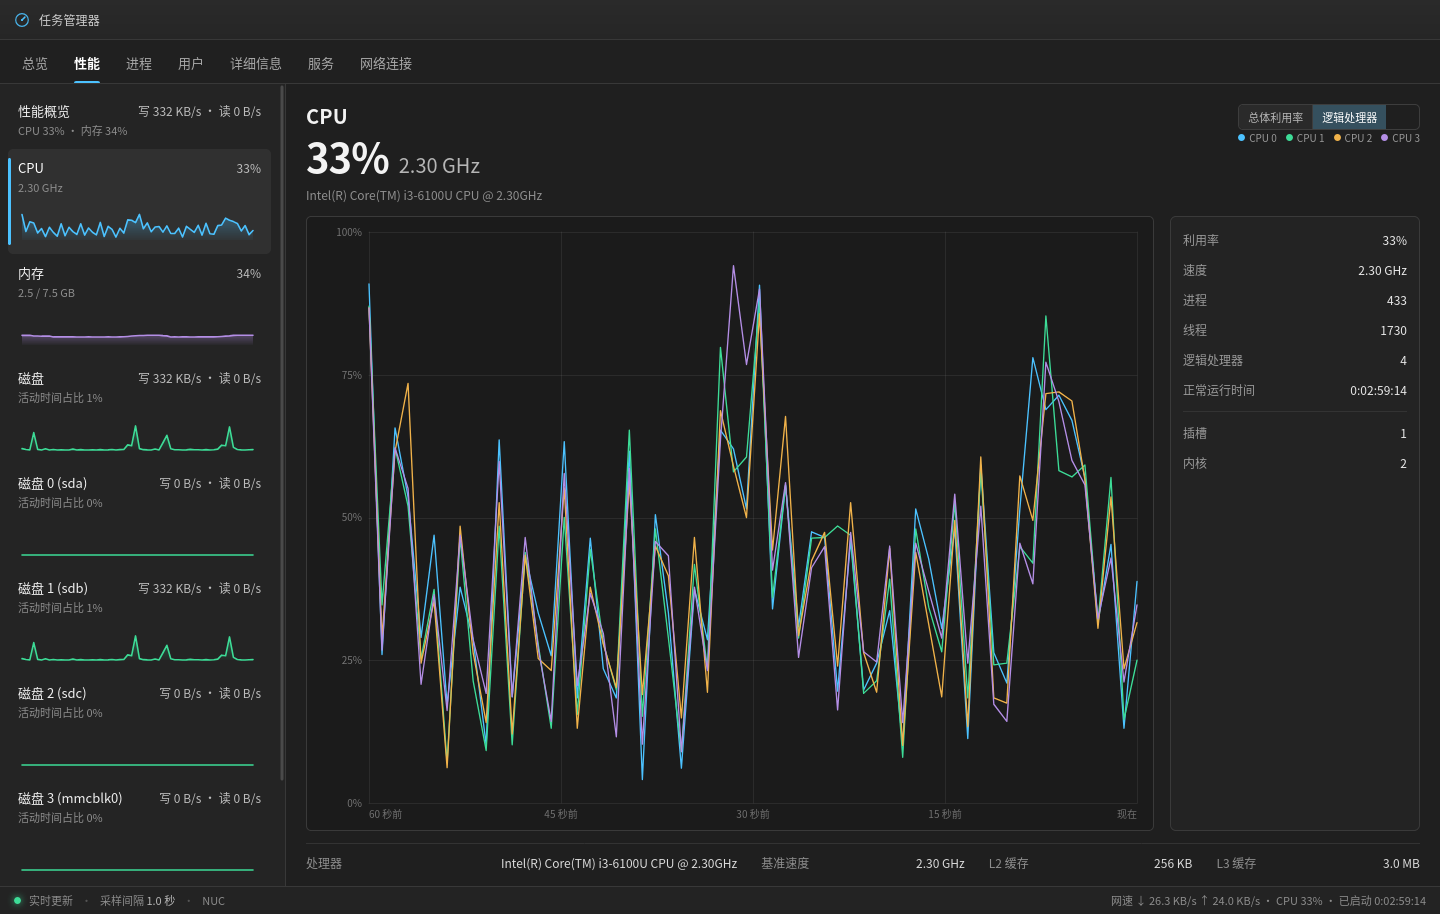
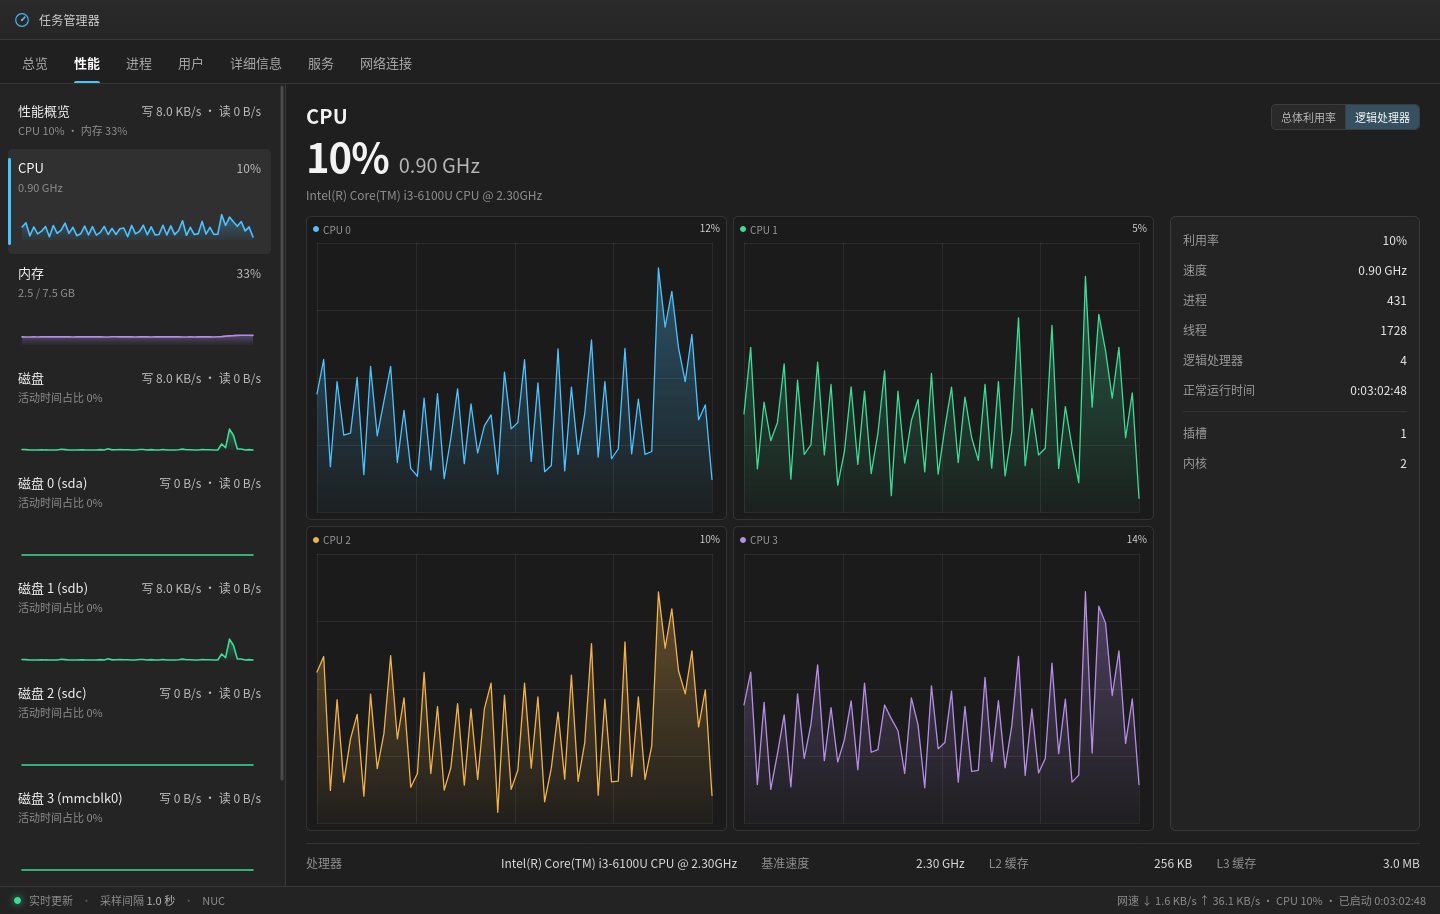
Add per-core CPU grid and persist page/CPU mode

diff --git a/public/app.js b/public/app.js
@@ -18,6 +18,7 @@
     networkSeries: [],
     view: 'overview',
     cpuMode: 'total',
+    cpuCoreCharts: [],
     diskName: null,
     diskSig: '',
     diskRows: [],
@@ -453,56 +454,85 @@
     return CPU_CORE_COLORS[index % CPU_CORE_COLORS.length];
   }
 
-  function cpuCoresTooltip(payload) {
-    if (!payload) return hideTooltip();
-    const rows = payload.values.map((value, index) => ({
-      color: cpuCoreColor(index),
-      label: `逻辑处理器 ${index}`,
-      value: value == null ? '—' : pct(value),
-    }));
-    showTooltip(timeLabel(payload.index), rows, payload.x, payload.y);
+  function cpuGridShape(count) {
+    const cols = count <= 4 ? Math.min(2, Math.max(1, count)) : 4;
+    return { cols, rows: Math.ceil(count / cols) };
   }
 
-  function renderCpuLegend(count) {
-    const el = $('#cpuLegend');
-    if (!el) return;
-    if (!count) {
-      el.hidden = true;
-      el.innerHTML = '';
-      return;
+  function cpuCoreTooltip(index, color) {
+    return (payload) => {
+      if (!payload) return hideTooltip();
+      const value = payload.values[0];
+      showTooltip(
+        timeLabel(payload.index),
+        [{ color, label: `CPU ${index}`, value: value == null ? '—' : pct(value) }],
+        payload.x,
+        payload.y
+      );
+    };
+  }
+
+  function ensureCpuCoreGrid(count) {
+    const grid = $('#cpuCoresGrid');
+    if (!grid) return;
+    const { cols, rows } = cpuGridShape(count);
+    grid.style.gridTemplateColumns = `repeat(${cols}, minmax(0, 1fr))`;
+    grid.style.gridTemplateRows = `repeat(${rows}, minmax(0, 1fr))`;
+    if (state.cpuCoreCharts.length === count && grid.children.length === count) return;
+
+    grid.innerHTML = '';
+    state.cpuCoreCharts = [];
+    for (let index = 0; index < count; index += 1) {
+      const color = cpuCoreColor(index);
+      const card = document.createElement('div');
+      card.className = 'cpu-core-card';
+      card.innerHTML =
+        `<div class="cpu-core-card-head">` +
+        `<span class="cpu-core-card-name"><i style="background:${color}"></i>CPU ${index}</span>` +
+        `<span class="cpu-core-card-val">--</span>` +
+        `</div>` +
+        `<div class="cpu-core-chart"><canvas></canvas></div>`;
+      grid.appendChild(card);
+      const chart = new Chart(card.querySelector('canvas'), {
+        max: 100,
+        grid: true,
+        labels: false,
+        minScale: 0,
+        hover: true,
+        tooltip: cpuCoreTooltip(index, color),
+        series: [{ color, fill: true, width: 1.3 }],
+      });
+      state.cpuCoreCharts.push({ chart, valueEl: card.querySelector('.cpu-core-card-val') });
     }
-    el.hidden = false;
-    el.innerHTML = Array.from(
-      { length: count },
-      (_, index) =>
-        `<span class="cpu-legend-item"><i style="background:${cpuCoreColor(index)}"></i>CPU ${index}</span>`
-    ).join('');
+    requestAnimationFrame(() => {
+      state.cpuCoreCharts.forEach((entry) => entry.chart.resize());
+    });
   }
 
   function updateCpuPerformance(last, cpuSeries) {
     const cores = (last.cpu && last.cpu.perCore) || [];
-    if (state.cpuMode === 'cores' && cores.length) {
-      const series = cores.map((_, index) => ({
-        color: cpuCoreColor(index),
-        fill: false,
-        width: 1.35,
-      }));
-      const data = cores.map((_, index) =>
+    const coresMode = state.cpuMode === 'cores' && cores.length > 0;
+    const totalPanel = $('#cpuTotalPanel');
+    const coresGrid = $('#cpuCoresGrid');
+    if (totalPanel) totalPanel.hidden = coresMode;
+    if (coresGrid) coresGrid.hidden = !coresMode;
+
+    if (coresMode) {
+      ensureCpuCoreGrid(cores.length);
+      const arrays = cores.map((_, index) =>
         pad60(state.samples.map((sample) => sample.cpu.perCore?.[index] ?? null))
       );
-      if (charts.cpu) {
-        charts.cpu.setSeries(series);
-        charts.cpu.opts.tooltip = cpuCoresTooltip;
-        charts.cpu.setData(data);
-      }
-      renderCpuLegend(cores.length);
-    } else {
-      if (charts.cpu) {
-        charts.cpu.setSeries([{ color: COLORS.cpu, fill: true, width: 1.6 }]);
-        charts.cpu.opts.tooltip = cpuTooltip;
-        charts.cpu.setData([cpuSeries]);
-      }
-      renderCpuLegend(0);
+      state.cpuCoreCharts.forEach((entry, index) => {
+        entry.chart.setData([arrays[index]]);
+        entry.valueEl.textContent = pct(cores[index]);
+      });
+      requestAnimationFrame(() => {
+        state.cpuCoreCharts.forEach((entry) => entry.chart.resize());
+      });
+    } else if (charts.cpu) {
+      charts.cpu.setSeries([{ color: COLORS.cpu, fill: true, width: 1.6 }]);
+      charts.cpu.opts.tooltip = cpuTooltip;
+      charts.cpu.setData([cpuSeries]);
     }
   }
 
@@ -511,6 +541,7 @@
     $$('#cpuModeToggle [data-cpu-mode]').forEach((btn) => {
       btn.classList.toggle('active', btn.dataset.cpuMode === state.cpuMode);
     });
+    savePageState();
     render();
   }
 
@@ -749,6 +780,7 @@
     hideTooltip();
     state.view = view;
     state.diskName = view === 'disk' ? diskName : null;
+    savePageState();
 
     $$('.view').forEach((el) => {
       el.hidden = el.dataset.view !== view;
@@ -1538,6 +1570,51 @@ function updateFooterBrief() {
   setText('#footerBrief', parts.join(' · '));
 }
 
+const PAGE_STATE_KEYS = {
+  page: 'task-manager-web.page',
+  view: 'task-manager-web.view',
+  disk: 'task-manager-web.disk',
+  mode: 'task-manager-web.cpuMode',
+};
+
+function savePageState() {
+  try {
+    localStorage.setItem(PAGE_STATE_KEYS.page, state.page);
+    localStorage.setItem(PAGE_STATE_KEYS.view, state.view);
+    localStorage.setItem(PAGE_STATE_KEYS.disk, state.diskName || '');
+    localStorage.setItem(PAGE_STATE_KEYS.mode, state.cpuMode);
+  } catch {
+    /* localStorage 不可用时忽略 */
+  }
+}
+
+function restorePageState() {
+  let page = 'overview';
+  let view = 'overview';
+  let disk = '';
+  let mode = 'total';
+  try {
+    page = localStorage.getItem(PAGE_STATE_KEYS.page) || page;
+    view = localStorage.getItem(PAGE_STATE_KEYS.view) || view;
+    disk = localStorage.getItem(PAGE_STATE_KEYS.disk) || '';
+    mode = localStorage.getItem(PAGE_STATE_KEYS.mode) || mode;
+  } catch {
+    /* ignore */
+  }
+  state.cpuMode = mode === 'cores' ? 'cores' : 'total';
+  $$('#cpuModeToggle [data-cpu-mode]').forEach((btn) => {
+    btn.classList.toggle('active', btn.dataset.cpuMode === state.cpuMode);
+  });
+  const pages = ['overview', 'performance', 'processes', 'users', 'details', 'services', 'network'];
+  const views = ['overview', 'cpu', 'mem', 'disk', 'network'];
+  if (!pages.includes(page)) page = 'overview';
+  if (!views.includes(view)) view = 'overview';
+  setPage(page);
+  if (page === 'performance') {
+    showView(view, view === 'disk' && disk ? disk : null);
+  }
+}
+
 function setPage(page) {
   const next = ['performance', 'processes', 'users', 'services', 'network', 'details'].includes(page)
     ? page
@@ -1601,6 +1678,8 @@ function setPage(page) {
       updateTransferBar();
     });
   }
+
+  savePageState();
 }
 
 /* ---------------------------- 跨盘传输 ---------------------------- */
@@ -3100,7 +3179,7 @@ async function loadProcesses() {
   initProcessUI();
   bindUI();
   setLive(false);
-  setPage('overview');
+  restorePageState();
   loadInfo();
   loadHealth();
   loadProcesses();

diff --git a/public/style.css b/public/style.css
@@ -2845,3 +2845,69 @@ body {
   height: 7px;
   border-radius: 50%;
 }
+
+
+/* CPU 逻辑处理器：每个核一个独立小图 */
+.cpu-total-panel[hidden],
+.cpu-cores-grid[hidden] {
+  display: none;
+}
+
+.cpu-cores-grid {
+  flex: 1;
+  min-height: 0;
+  display: grid;
+  gap: 6px;
+}
+
+.cpu-core-card {
+  min-width: 0;
+  min-height: 0;
+  display: flex;
+  flex-direction: column;
+  padding: 4px 6px 3px;
+  background: #1b1b1b;
+  border: 1px solid #333333;
+  border-radius: 5px;
+  overflow: hidden;
+}
+
+.cpu-core-card-head {
+  flex: none;
+  display: flex;
+  align-items: baseline;
+  justify-content: space-between;
+  gap: 6px;
+  color: #9a9a9a;
+  font-size: 10px;
+  line-height: 14px;
+}
+
+.cpu-core-card-name {
+  display: inline-flex;
+  align-items: center;
+  gap: 4px;
+}
+
+.cpu-core-card-name i {
+  display: inline-block;
+  width: 6px;
+  height: 6px;
+  border-radius: 50%;
+}
+
+.cpu-core-card-val {
+  color: #d0d0d0;
+  font-variant-numeric: tabular-nums;
+}
+
+.cpu-core-chart {
+  flex: 1;
+  min-height: 0;
+}
+
+.cpu-core-chart canvas {
+  display: block;
+  width: 100%;
+  height: 100%;
+}

diff --git a/public/index.html b/public/index.html
@@ -404,13 +404,13 @@
               <button type="button" data-cpu-mode="total" class="active">总体利用率</button>
               <button type="button" data-cpu-mode="cores">逻辑处理器</button>
             </div>
-            <div class="cpu-legend" id="cpuLegend" hidden></div>
           </div>
         </header>
 
         <div class="detail-body">
-          <div class="chart-panel">
-            <div class="chart-frame"><canvas id="cpuChart"></canvas></div>
+          <div class="chart-panel cpu-chart-panel">
+            <div class="chart-frame cpu-total-panel" id="cpuTotalPanel"><canvas id="cpuChart"></canvas></div>
+            <div class="cpu-cores-grid" id="cpuCoresGrid" hidden></div>
           </div>
           <aside class="stats-panel">
             <div class="stat-row"><span>利用率</span><b id="stCpuUsage">--</b></div>
